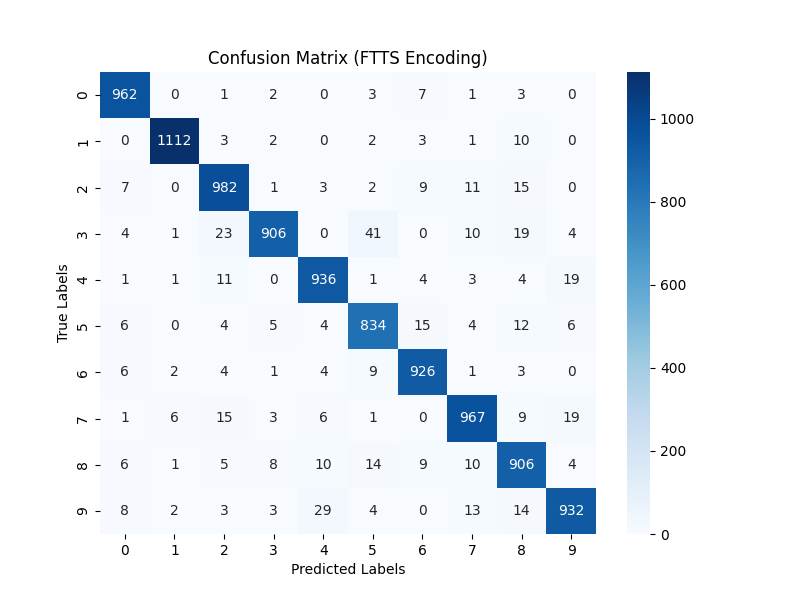
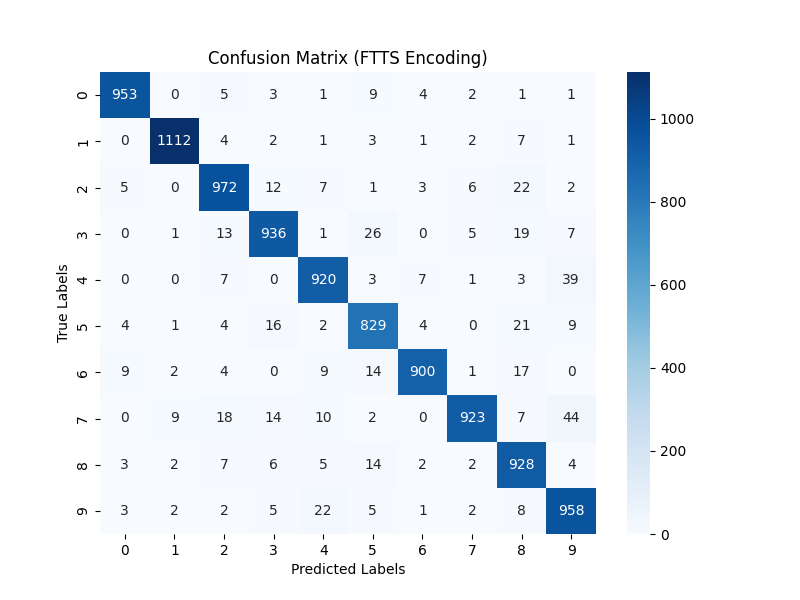
added method super to the lif params

diff --git a/scripts/spiking_model.py b/scripts/spiking_model.py
@@ -50,9 +50,11 @@ class SNN(nn.Module):
         super(SNN, self).__init__()
 
         # Initialize the first LIF recurrent cell layer
-        self.l1 = LIFRecurrentCell(input_features, hidden_features1, p=LIFParameters(alpha=90, v_th=torch.tensor(0.1)), dt=dt)
+        self.l1 = LIFRecurrentCell(input_features, hidden_features1, p=LIFParameters(alpha=90, v_th=torch.tensor(0.1),method="super"), dt=dt)
         # Initialize the second LIF recurrent cell layer
-        self.l2 = LIFRecurrentCell(hidden_features2, hidden_features2, p=LIFParameters(alpha=90, v_th=torch.tensor(0.1)), dt=dt)
+        #method set to super applies the superspike surrogate gradient learning
+        #other method includes headvise,tanh, triangle(recommended for conv layers), circ, and heavi_erfc
+        self.l2 = LIFRecurrentCell(hidden_features2, hidden_features2, p=LIFParameters(alpha=90, v_th=torch.tensor(0.1),method="super"), dt=dt)
         # Linear transformation from first hidden layer to second hidden layer
         self.fc_hidden = nn.Linear(hidden_features1, hidden_features2, bias=False).to(device)
         # Linear transformation from second hidden layer to output
@@ -69,9 +71,7 @@ class SNN(nn.Module):
         self.spike_count=0
         self.synaptic_operations=0
 
-        # Initialize STDP parameters and state
-        #self.stdp_params = STDPParameters()
-        #self.stdp_state = STDPState(t_pre=torch.zeros(hidden_features1, device=device), t_post=torch.zeros(hidden_features2, device=device))
+       
         self.voltages = []
     #reset synaptic spike count and operations
     def reset(self):
